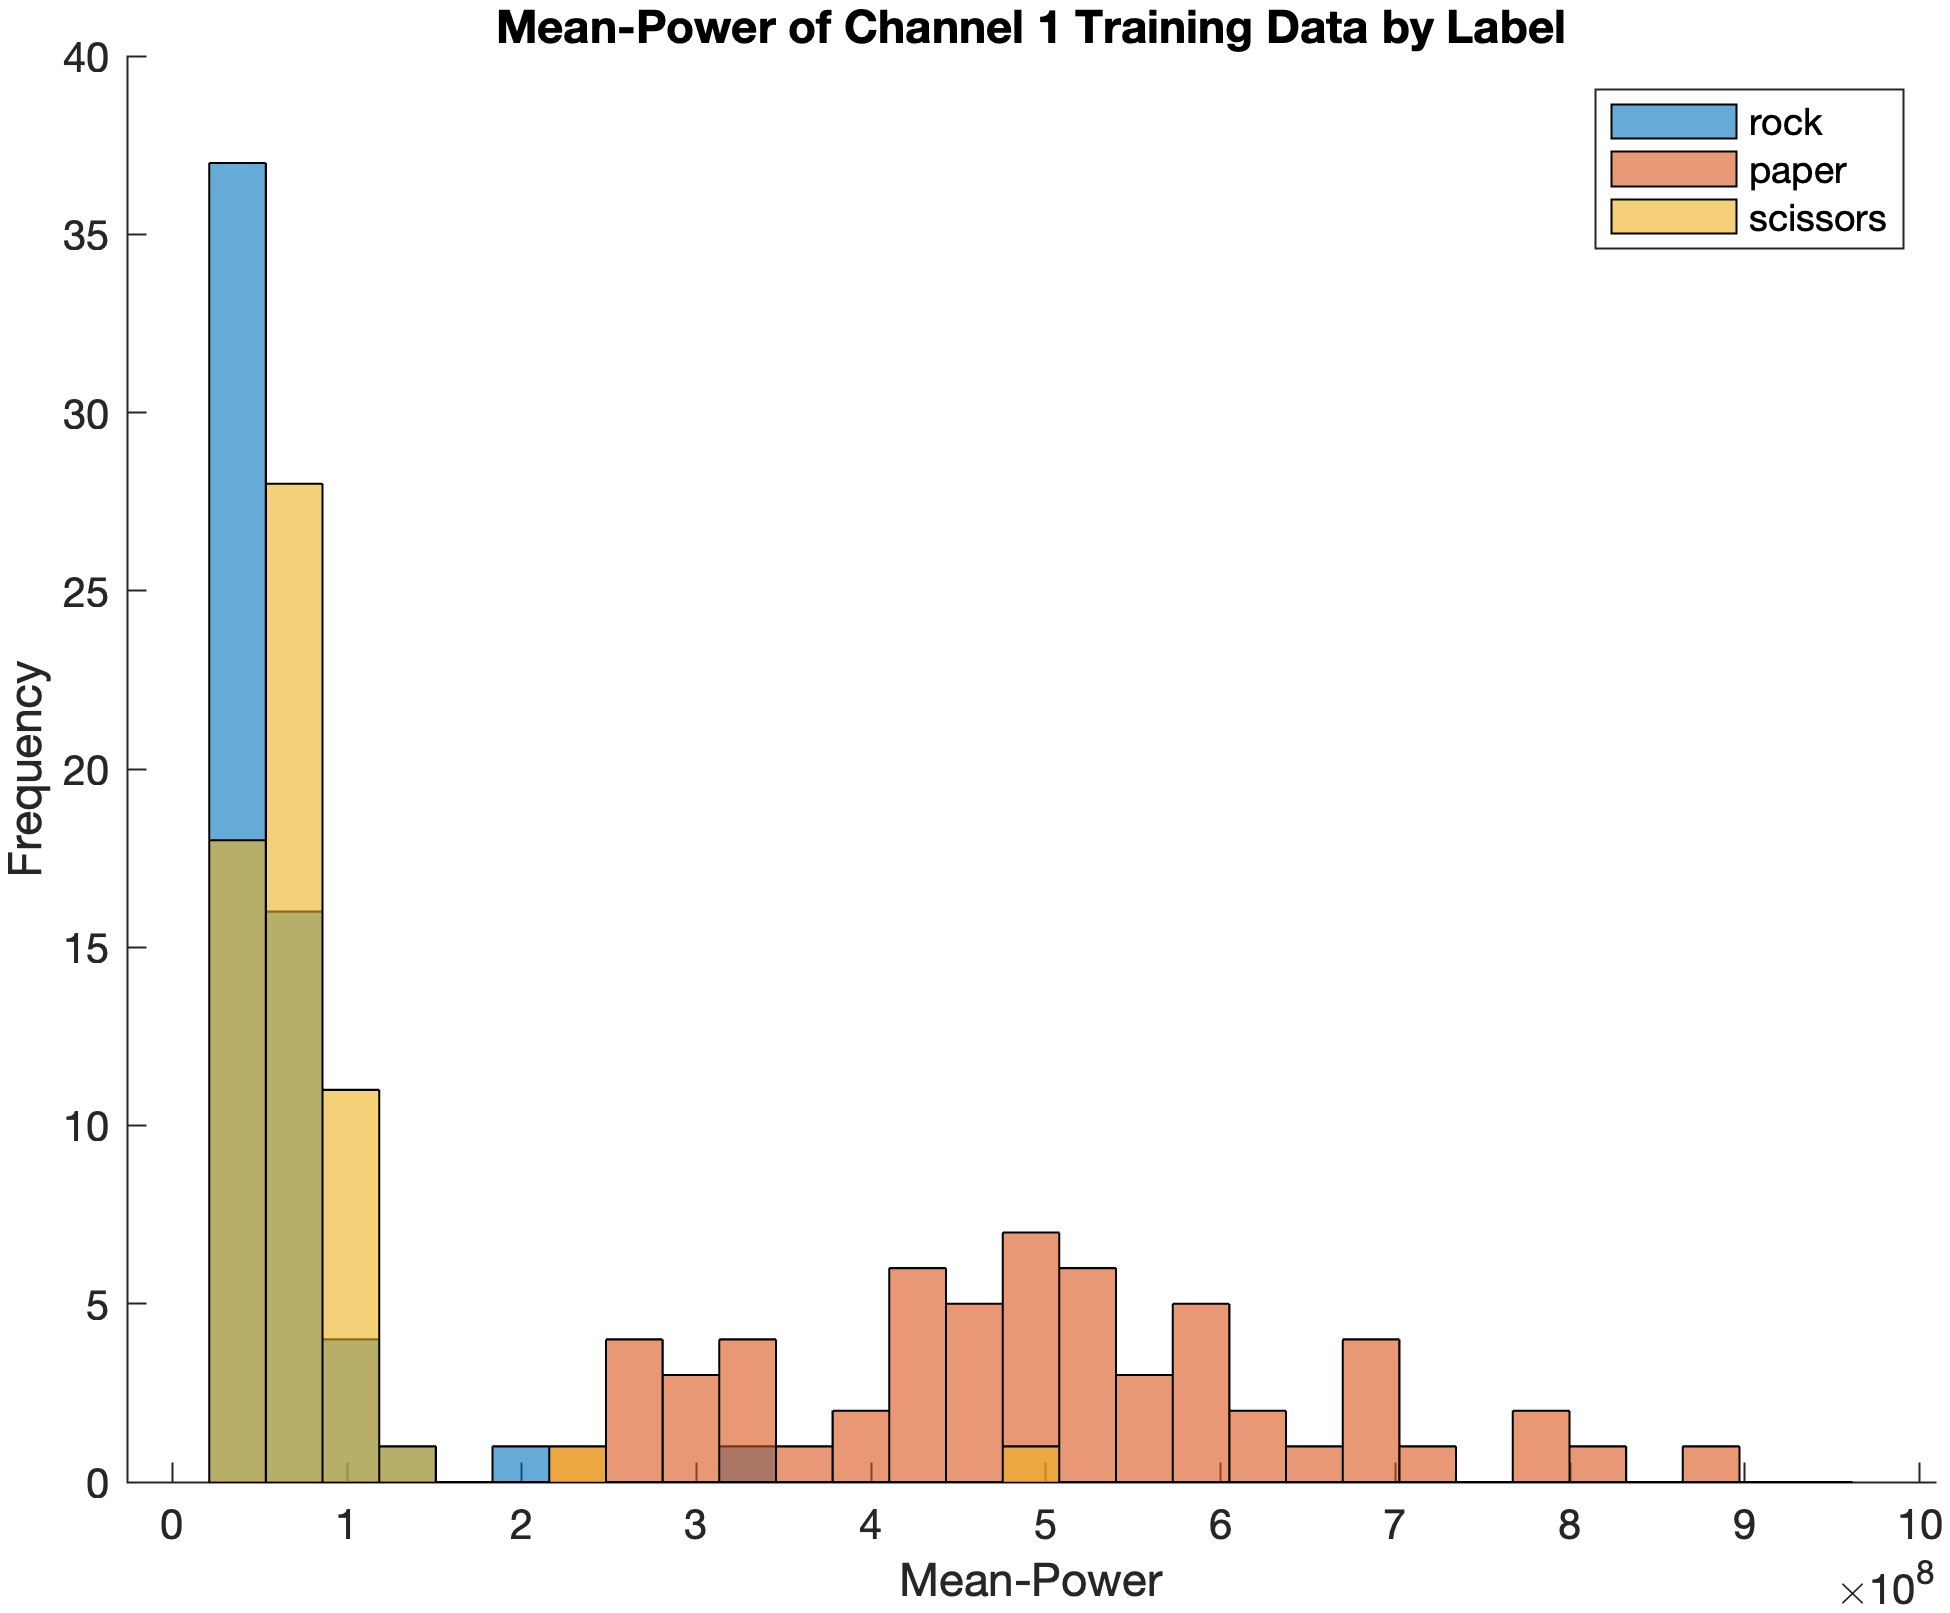
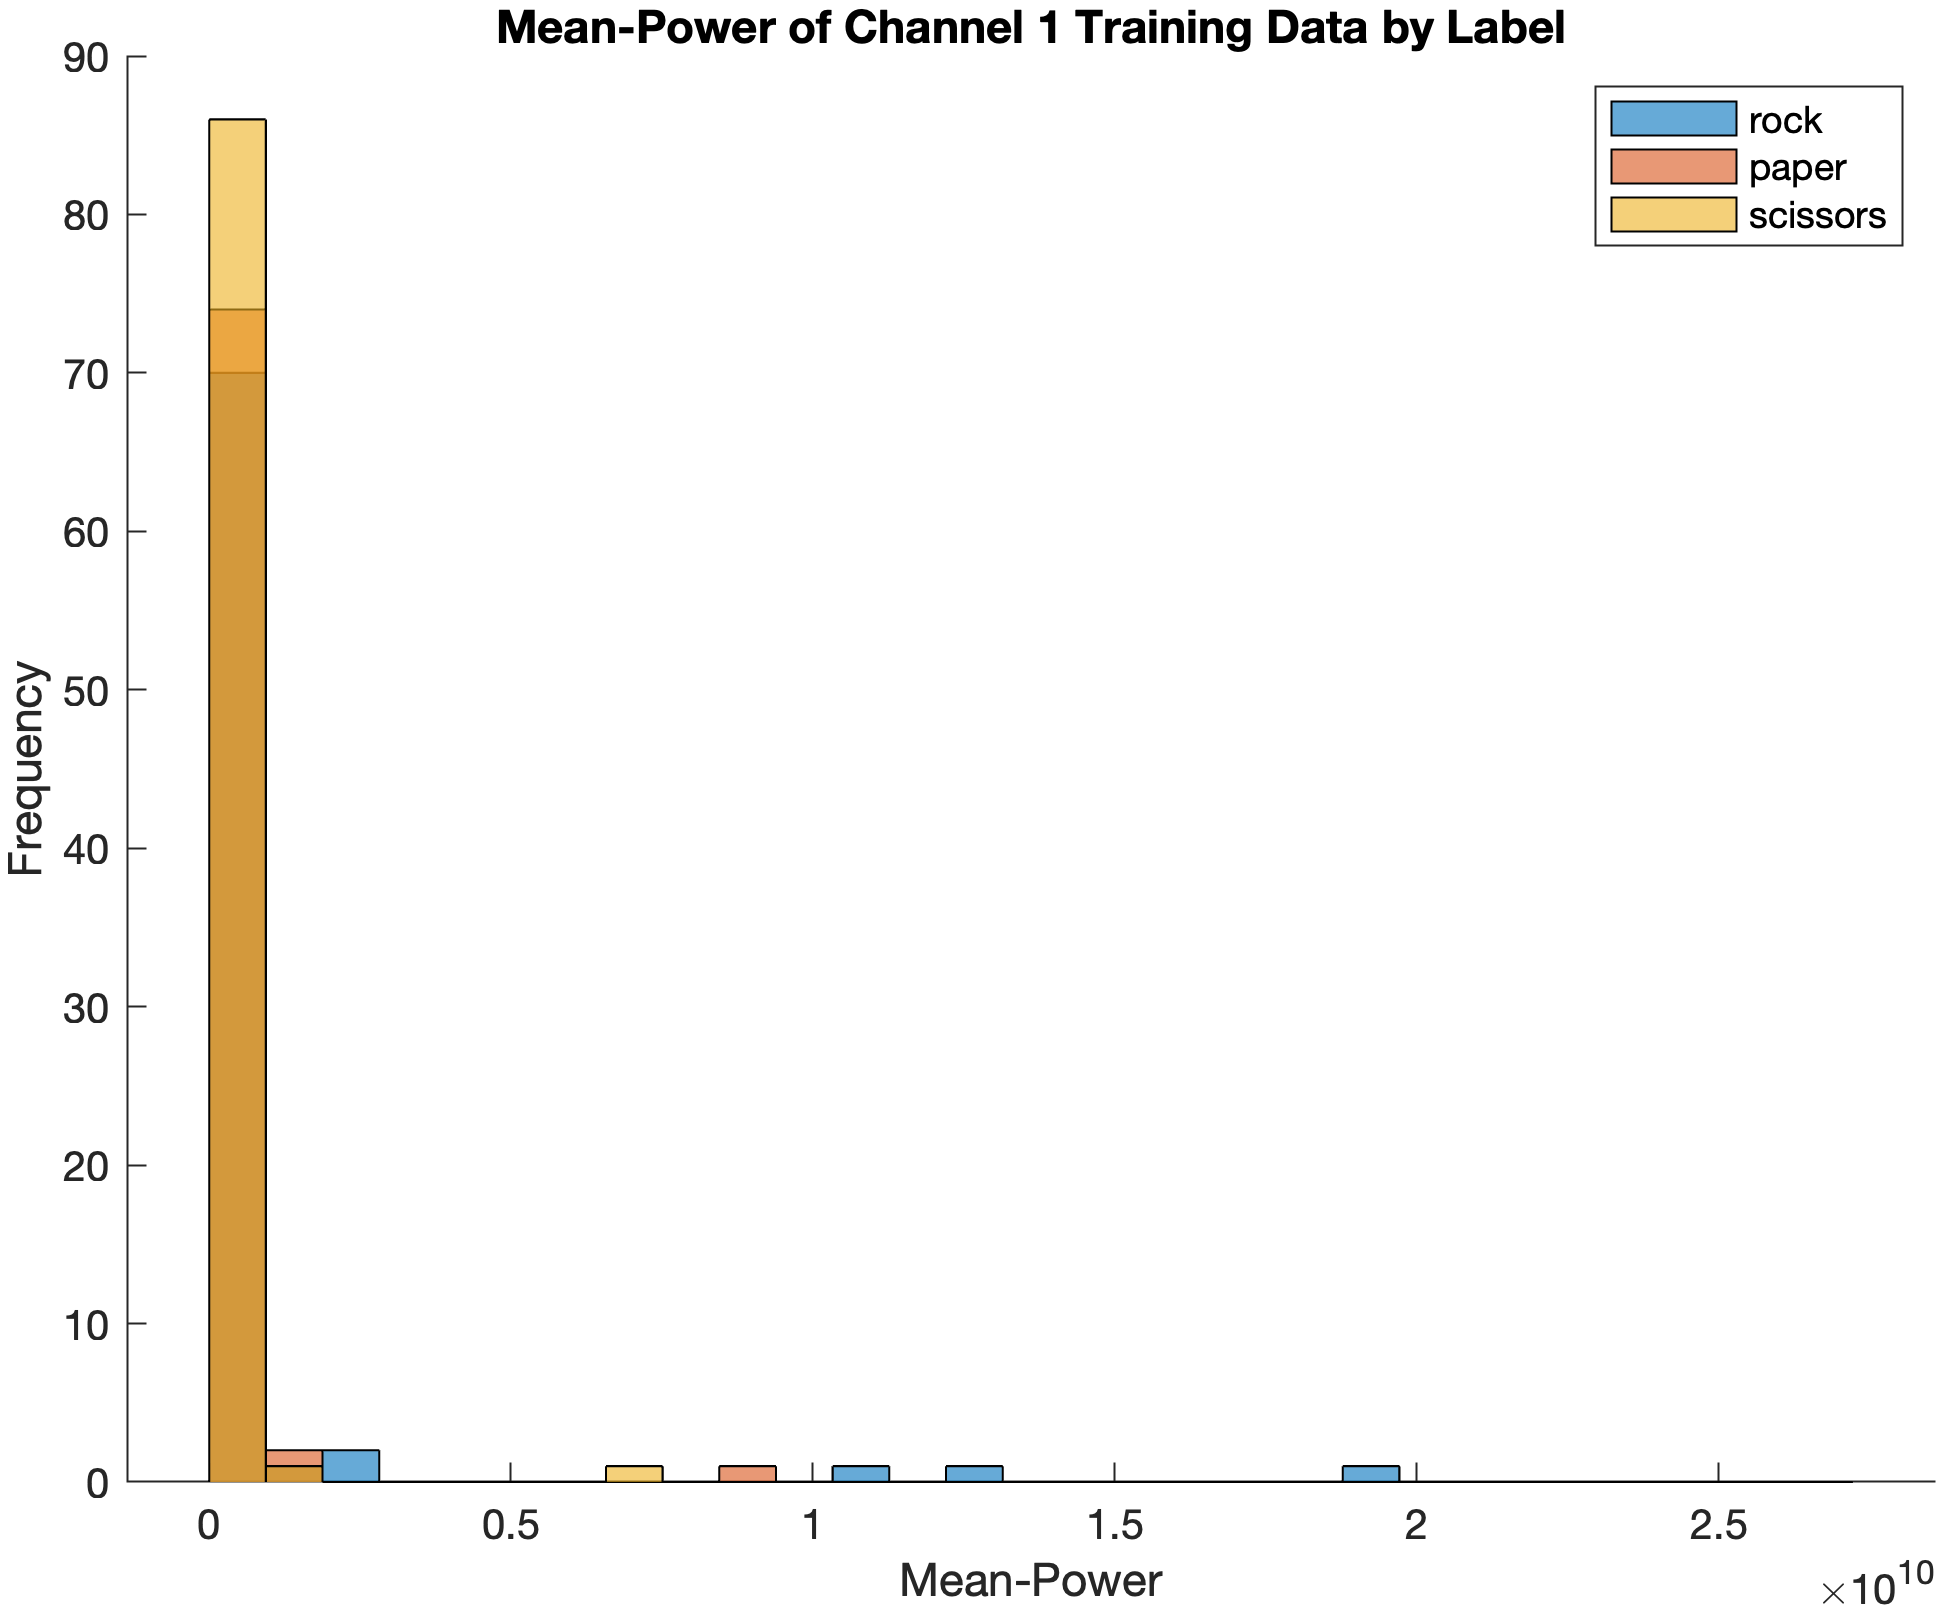
retrain on combined model

diff --git a/scripts/featureExtractor.m b/scripts/featureExtractor.m
@@ -1,7 +1,7 @@
 
 
 % Respective files should be placed in the train/test folder with same name
-datasets = {"anotherDay.mat"};
+datasets = {"raw_combined.mat"};
 
 % Features to extract, implemented in extractFeatures(_,_,_) function
 includedFeatures = {'variance','waveformlength', 'meanabsvalue', 'rootmeansquared', 'wilsonamp', 'improved1meanabsvalue', 'meanpower'}; 
@@ -91,9 +91,9 @@ function [feature_table] = extractFeatures(dataChTimeTr,includedFeatures, Fs)
             % robustness of the MAV feature. 
             case 'improved1meanabsvalue'
                 series_length = size(dataChTimeTr, 3);
-                slice1 = sum(abs(dataChTimeTr(:, 1:(series_length * 0.25), :)), 2);
-                slice2 = sum(abs(dataChTimeTr(:, (series_length * 0.25):(series_length * 0.75), :)), 2);
-                slice3 = sum(abs(dataChTimeTr(:, (series_length * 0.75): series_length, :)), 2);
+                slice1 = sum(abs(dataChTimeTr(:, 1:int64(series_length * 0.25), :)), 2);
+                slice2 = sum(abs(dataChTimeTr(:, int64(series_length * 0.25):int64(series_length * 0.75), :)), 2);
+                slice3 = sum(abs(dataChTimeTr(:, int64(series_length * 0.75): series_length, :)), 2);
                 weighted_slices = (slice1 * 0.25) + slice2 + (slice3 * 0.25);
                 fvalues = squeeze(weighted_slices ./ series_length)';
             

diff --git a/scripts/featureVisualization.m b/scripts/featureVisualization.m
@@ -1,6 +1,6 @@
 
-original_dataset = "datasets/train/anotherDay.mat";
-features = "features/train/anotherDay.mat";
+original_dataset = "datasets/train/raw_combined.mat";
+features = "features/train/raw_combined.mat";
 
 load(original_dataset);
 load(features);

diff --git a/scripts/featureAccuracyVisualization.m b/scripts/featureAccuracyVisualization.m
@@ -1,5 +1,5 @@
 
-dataset = "anotherDay.mat";
+dataset = "raw_combined.mat";
 
 % calculate cross-validation accuracy for each feature
 wave_form_acc = get_accuracy_for_feature_list(dataset, {'waveformlength_'});
